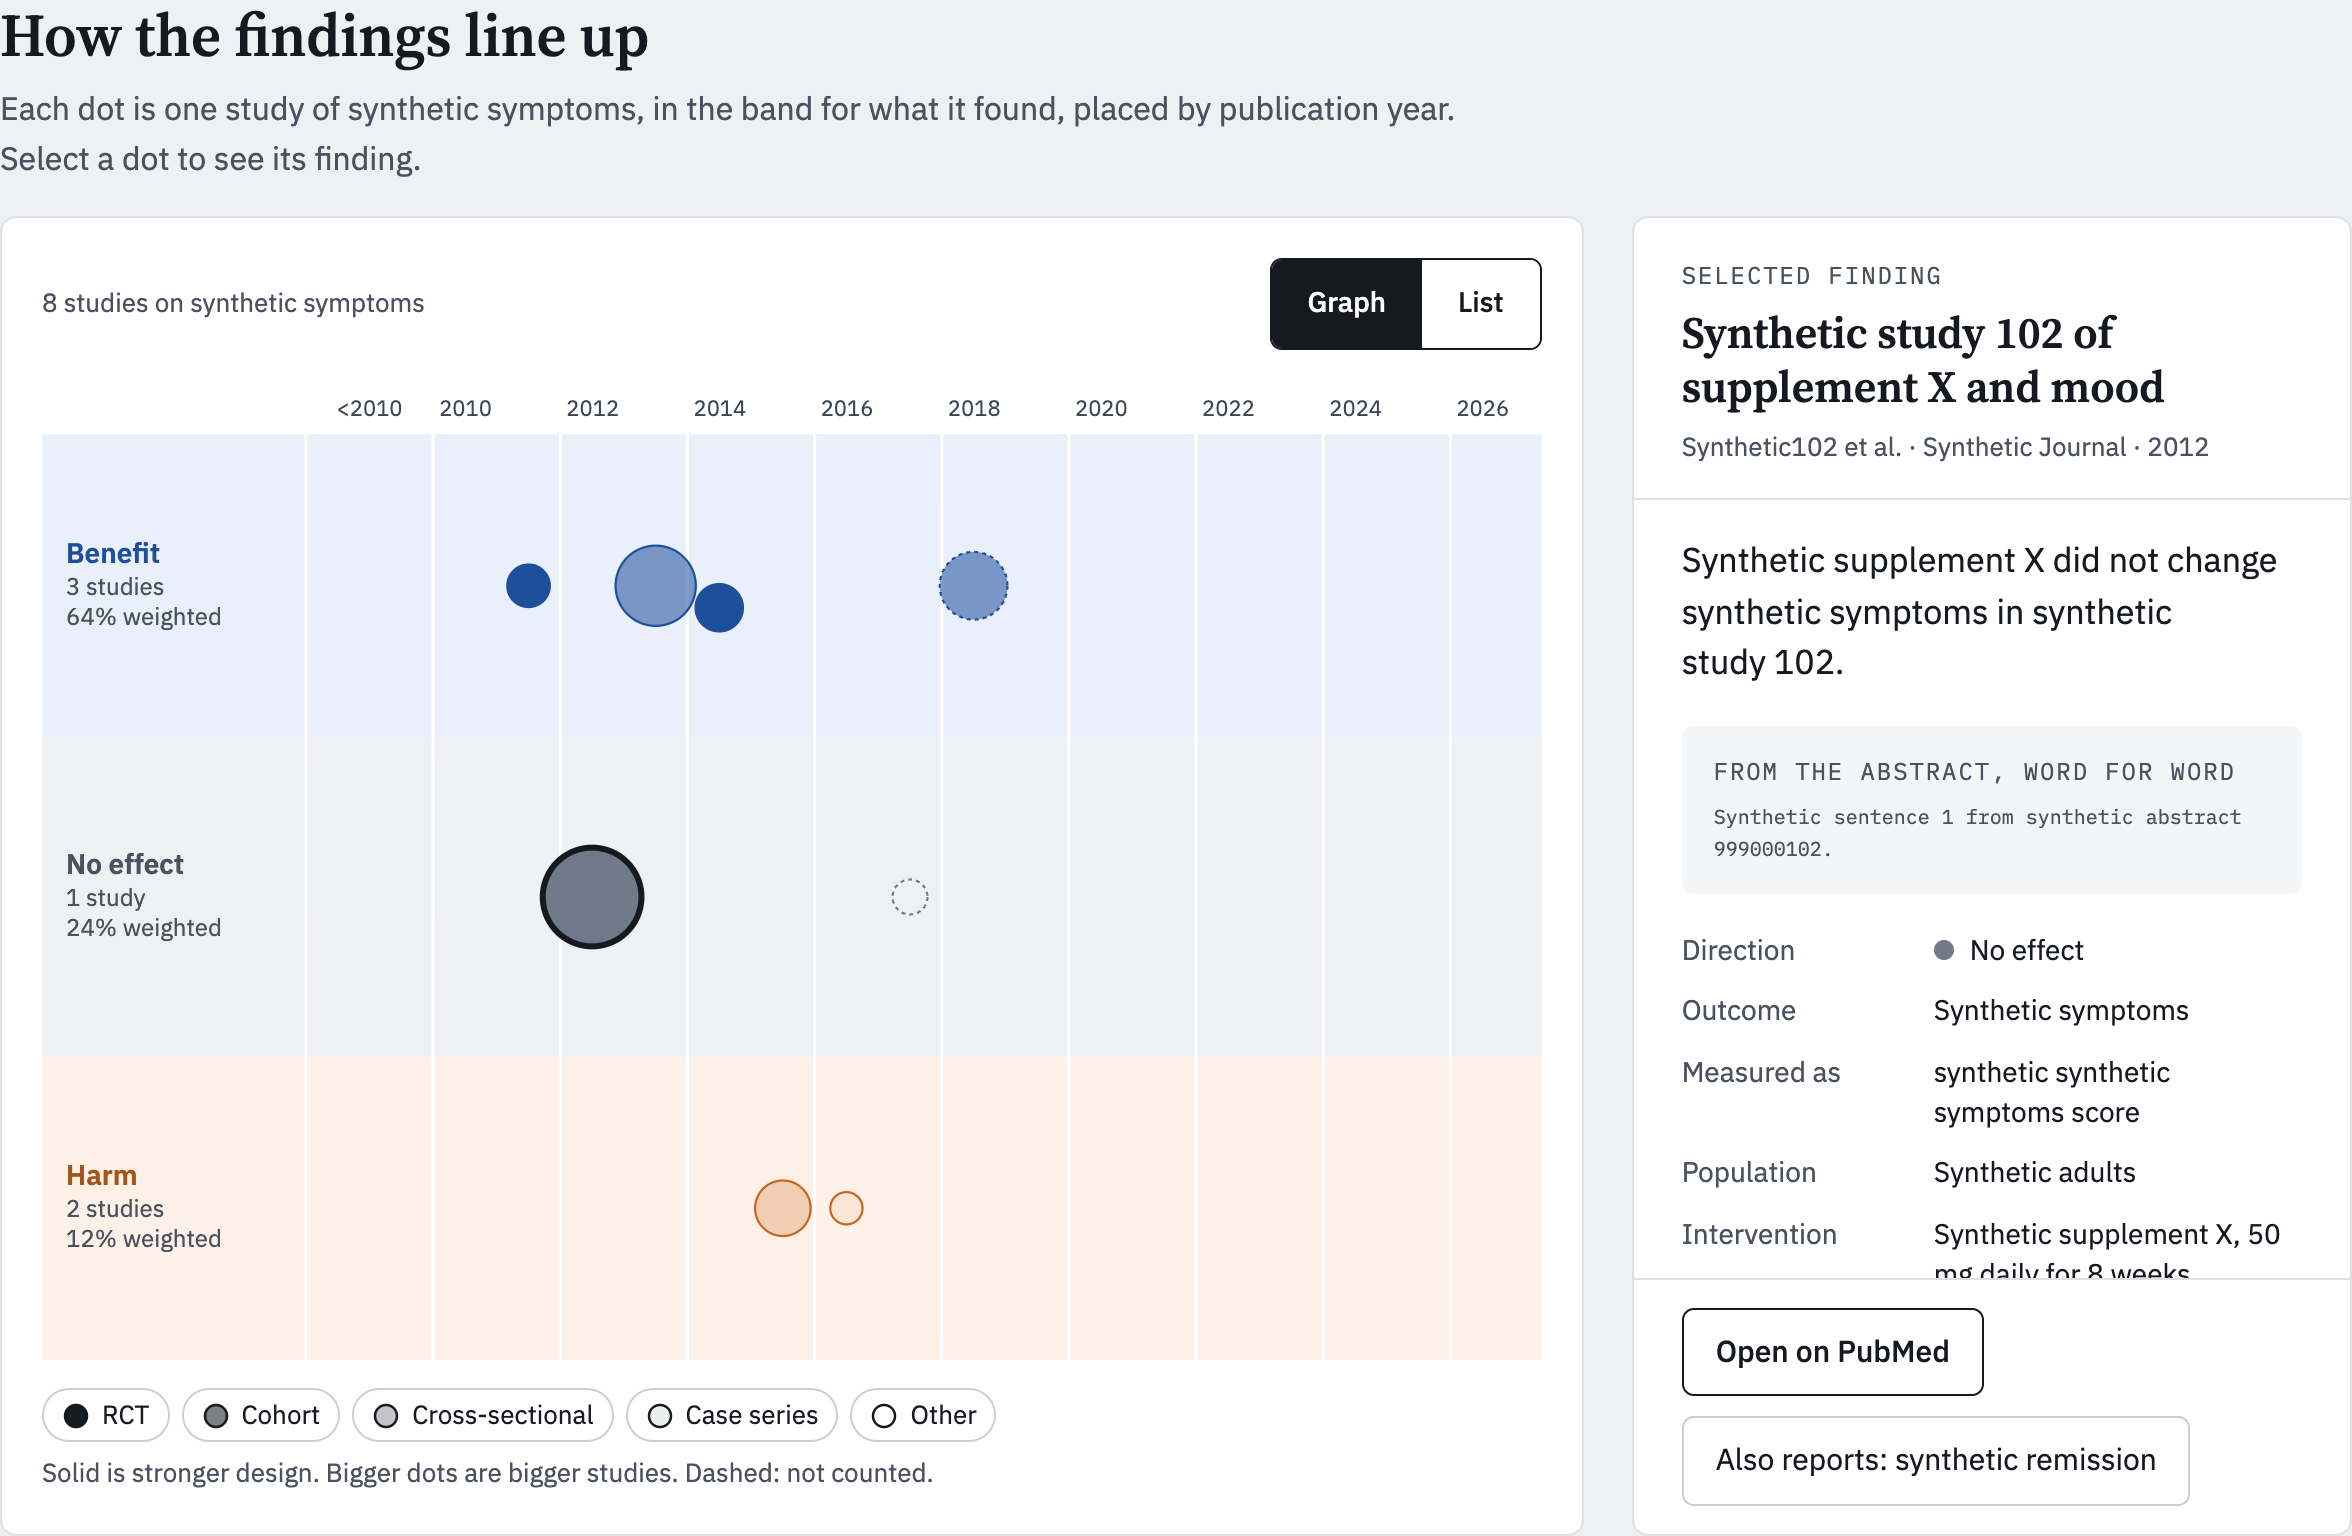
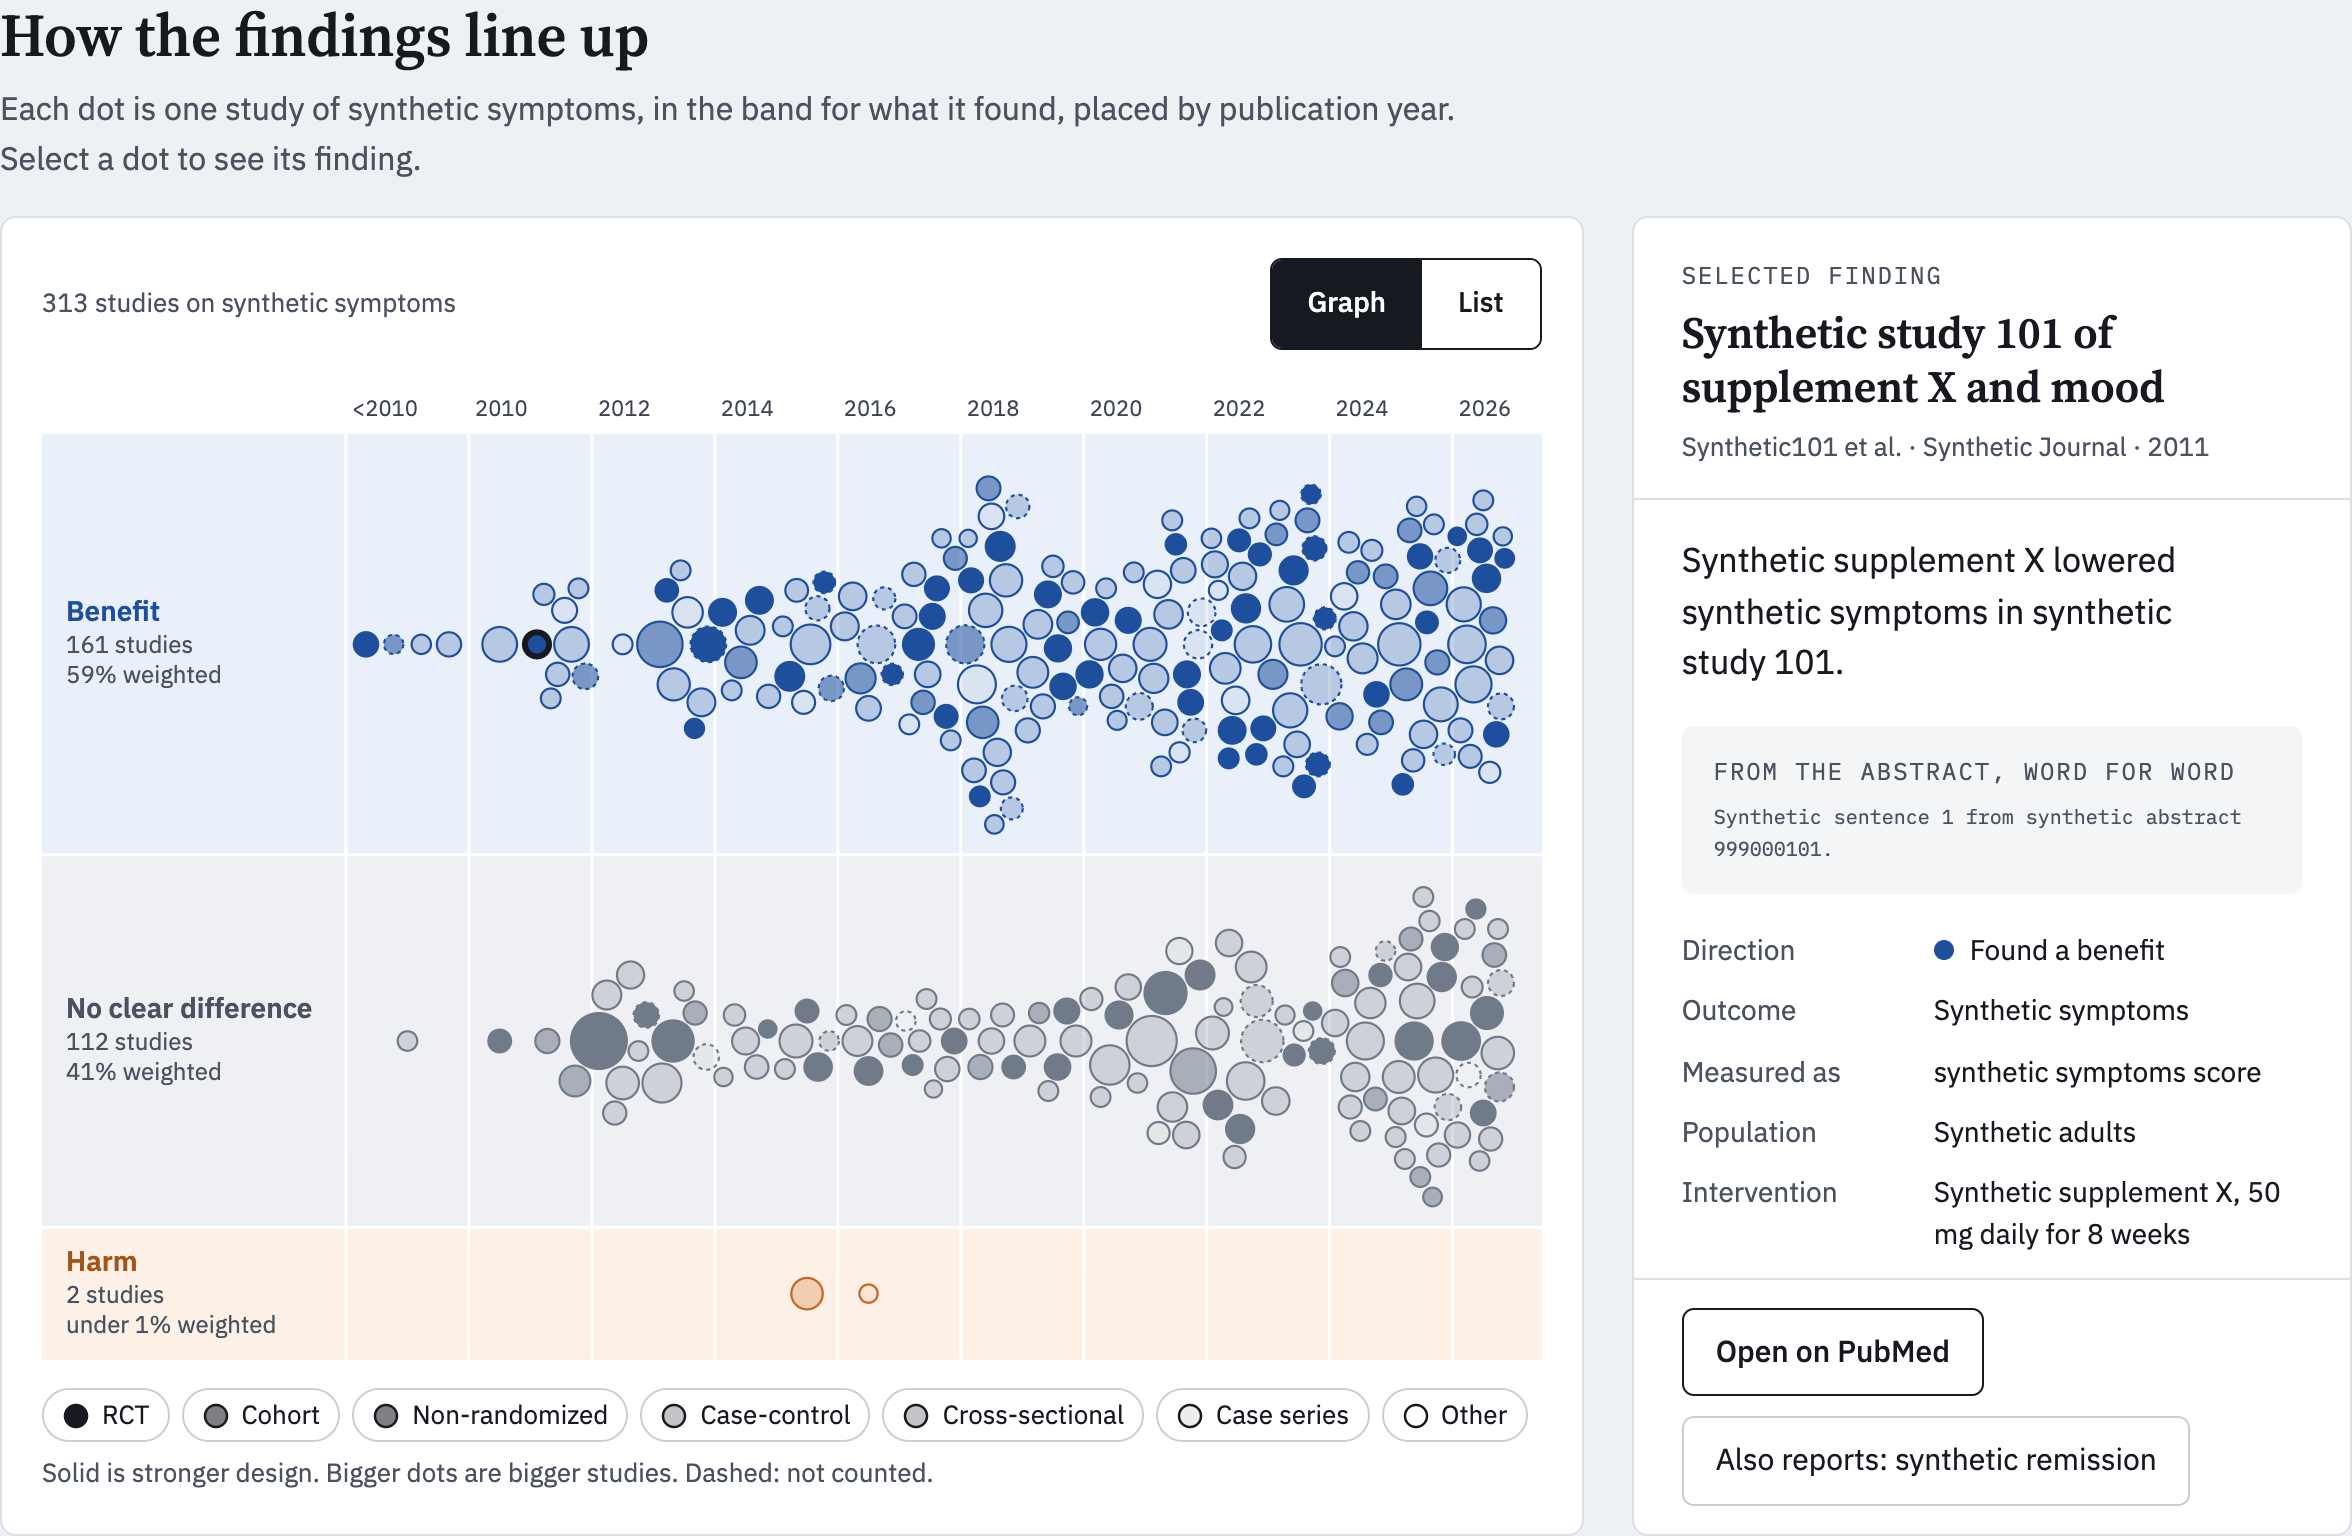
docs: link the live demo and show a busier graph in the README
The README opens with a link to the hosted page. Its picture is now the
graph on the showcase fixture, 313 invented studies across the bands,
in place of the near-empty synthetic one, and says why the repository
holds no picture of the real run.

diff --git a/README.md b/README.md
@@ -6,9 +6,14 @@ groups findings that measure the same outcome, and names the likely reason when 
 disagree: different people, a different dose or comparator, a different measure, or a weaker
 design. A static page shows the result.
 
-Research navigation demo, not medical advice.
+**Live demo: [prof197.github.io/claimgraph](https://prof197.github.io/claimgraph/)**, the
+vitamin D and depression run. Research navigation demo, not medical advice.
 
-![The page on its synthetic test data: studies in benefit, no effect and harm bands by year, with one study's finding and its quoted sentence beside them](docs/page.png)
+![The page's graph on a synthetic test export of 313 invented studies: dots in benefit, no clear difference and harm bands by publication year, sized by sample and shaded by design, with one study's finding and its quoted sentence beside them](docs/page.png)
+
+The picture uses invented test data shaped like a busy question; the live demo shows the real
+run. Its quotes come from abstracts that are not openly licensed, so the repository holds no
+pictures of it.
 
 **Status:** the pipeline runs end to end on one question, vitamin D and depression, and the
 hosted page shows its run: every kept abstract extracted, the outcome mapping reviewed, and the
